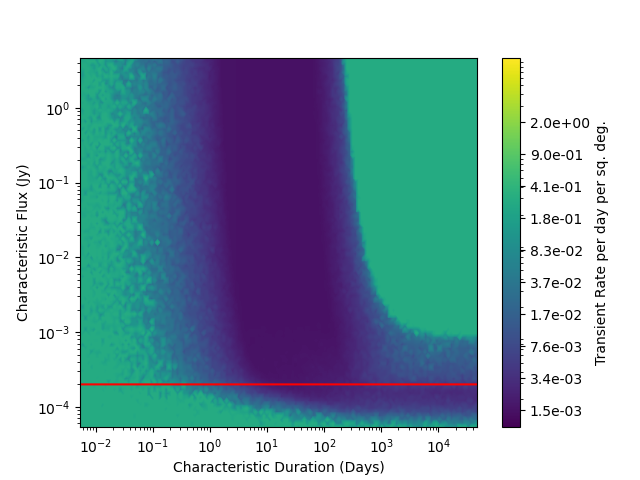
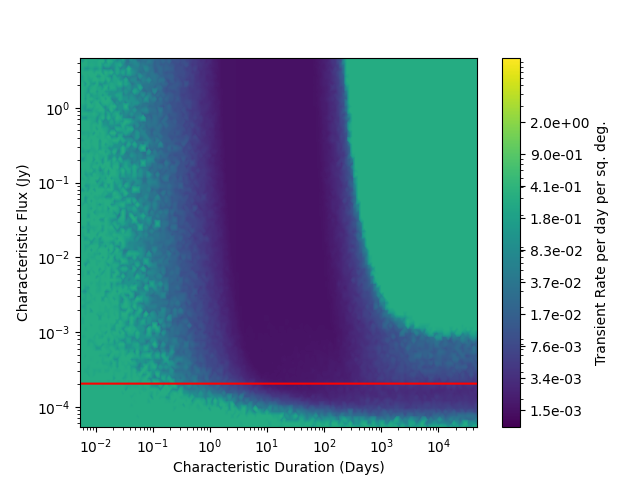
created a temporary diagnostic plot, made a temporary vertical line. some fixes, some figures.

diff --git a/simulations/compute_lc.py b/simulations/compute_lc.py
@@ -52,8 +52,8 @@ def observing_strategy(obs_setup, det_threshold, nobs, obssens, obssig, obsinter
         tmpscoff1 = tmpsc.directional_offset_by(-30.00075*u.degree, (1/np.sqrt(2))*u.degree)
         tmpscoff2 = tmpsc.directional_offset_by(30.00075*u.degree, (1/np.sqrt(2))*u.degree)
         # # print()
-        pointing[:15]-=[tmpsc.ra.deg - tmpscoff1.ra.deg,tmpsc.dec.deg - tmpscoff1.dec.deg]
-        pointing[15:30]-=[tmpsc.ra.deg - tmpscoff2.ra.deg,tmpsc.dec.deg - tmpscoff2.dec.deg]
+        # pointing[:15]-=[tmpsc.ra.deg - tmpscoff1.ra.deg,tmpsc.dec.deg - tmpscoff1.dec.deg]
+        # pointing[15:30]-=[tmpsc.ra.deg - tmpscoff2.ra.deg,tmpsc.dec.deg - tmpscoff2.dec.deg]
         # pointing[::3]=[342.5811999,-59.12369356]
         # pointing[1::3]=[342.6688451,-59.04494042]
         # print(pointing)
@@ -68,6 +68,7 @@ def observing_strategy(obs_setup, det_threshold, nobs, obssens, obssig, obsinter
         pointFOV = np.zeros((len(obs),3))
         pointFOV[:,0:2] += pointing
         pointFOV[:,2] += FOV
+
     return obs, pointFOV
         
 def calculate_regions(pointFOV, observations):
@@ -133,7 +134,7 @@ def calculate_regions(pointFOV, observations):
                     # from the triangle formed between pointing center, overlap center, and overlap nodal point.
 
                     angle_offset = 90*u.deg
-                    halfheightr4 = np.arccos(np.cos(r2)/np.cos(gamma[i][j])) 
+                    halfheightr4 = np.arccos(np.cos(r1)/np.cos(gamma[i][j])) 
                     point4key = np.where(regions['identity'] == str(i)+'&'+str(j))
                     point4ra = regions['ra'][point4key]
                     point4dec = regions['dec'][point4key]
@@ -144,7 +145,7 @@ def calculate_regions(pointFOV, observations):
                     if point7sc.separation(uniquesky[index3]).deg > uniquepoint[index3,2]:
                         point7sc = point4sc.directional_offset_by(point4pa - angle_offset, halfheightr4)
 
-                    halfheightr5 = np.arccos(np.cos(r3)/np.cos(gamma[j][index3]))
+                    halfheightr5 = np.arccos(np.cos(r2)/np.cos(gamma[j][index3]))
                     point5key = np.where(regions['identity'] == str(j)+'&'+str(index3))
                     point5ra = regions['ra'][point5key]
                     point5dec = regions['dec'][point5key]
@@ -205,8 +206,8 @@ def calculate_regions(pointFOV, observations):
                     regions['timespan'][leftoff] = regions['stop'][leftoff] - regions['start'][leftoff]
                     leftoff+=1
 
-                    # scatterpointsra.extend([point7sc.ra,point8sc.ra,point9sc.ra])
-                    # scatterpointsdec.extend([point7sc.dec,point8sc.dec,point9sc.dec])
+    #                 scatterpointsra.extend([point7sc.ra,point8sc.ra,point9sc.ra])
+    #                 scatterpointsdec.extend([point7sc.dec,point8sc.dec,point9sc.dec])
     # from astropy.wcs import WCS
     # from astropy.io import fits
     # from astropy.utils.data import get_pkg_data_filename
@@ -525,10 +526,20 @@ def make_mpl_plots(rgn, fl_min,fl_max,dmin,dmax,det_threshold,extra_threshold,ob
     with np.errstate(divide='ignore'):
         if detections==0:
             trial_transrate = -np.log(1-confidence)/(probabilities)/(tsurvey + durations)/area
-
             try: 
                 ultransrates = np.nan_to_num(-np.log(1-confidence)/(probabilities)/(tsurvey + durations)/area, posinf=np.max(trial_transrate[trial_transrate < np.inf]))
                 ulZrate = interpolate.griddata(toplot[:,0:2], ultransrates, (X, Y), method='linear')
+                fig = plt.figure()
+                plt.scatter(10**X[Y == Y[500,500]],ulZrate[Y == Y[500,500]], s=5)
+                ax = plt.gca()
+                ax.set_xscale('log')
+                plt.title('Transient Rate at '+str(10**Y[500,500])+" Jy")
+                ax.set_xlabel('Characteristic Duration (days)')
+                ax.set_ylabel('Transient Rate per day per sq. deg.')
+                np.save("xratescatter.npy", 10**X[Y == Y[500,500]])
+                np.save("yratescatter.npy", ulZrate[Y == Y[500,500]])
+                plt.savefig('ratescatter.png')
+                plt.close()
                 # Make plot for zero detections
                 fig = plt.figure()
                 # 
@@ -541,6 +552,7 @@ def make_mpl_plots(rgn, fl_min,fl_max,dmin,dmax,det_threshold,extra_threshold,ob
                 cbarrate = fig.colorbar(csrate, ticks=np.geomspace(ulZrate.min(),np.ceil(np.mean(ulZrate))+1,num=10), format=ticker.StrMethodFormatter("{x:01.1e}"))
                 cbarrate.set_label('Transient Rate per day per sq. deg.')
                 plt.plot(10**xs, 10**np.full(xs.shape, np.log10(vlinex[0])),  color="red")
+                plt.plot(10**np.full(ys.shape, np.log10(5/60/24)),10**ys,  color="red")
                 ax = plt.gca()
                 ax.set_ylabel('Characteristic Flux (Jy)')
                 ax.set_xlabel('Characteristic Duration (Days)')
@@ -614,6 +626,7 @@ def make_mpl_plots(rgn, fl_min,fl_max,dmin,dmax,det_threshold,extra_threshold,ob
             cbarrate = fig.colorbar(csrate, ticks=np.geomspace(llZrate[llZrate>0].min(),np.ceil(np.mean(llZrate[llZrate>0]))+1,num=10), format=ticker.StrMethodFormatter("{x:01.1e}"))
             cbarrate.set_label('Transient Rate per day per sq. deg.')
             plt.plot(10**xs, 10**np.full(xs.shape, np.log10(vlinex[0])),  color="red")
+            plt.plot(10**np.full(ys.shape, np.log10(5/60/24)),10**ys,  color="red")
             ax = plt.gca()
             ax.set_ylabel('Characteristic Flux (Jy)')
             ax.set_xlabel('Characteristic Duration (Days)')
@@ -642,6 +655,7 @@ def make_mpl_plots(rgn, fl_min,fl_max,dmin,dmax,det_threshold,extra_threshold,ob
     plt.plot(10**xs[durmax_y_indices], durmax_y[durmax_y_indices],  color = "red")
     plt.plot(10**xs[maxdist_y_indices], maxdist_y[maxdist_y_indices],   color = "red")
     plt.plot(10**xs, 10**np.full(xs.shape, np.log10(vlinex[0])),  color="red")
+    plt.plot(10**np.full(ys.shape, np.log10(5/60/24)),10**ys,  color="red")
     if durmax_x[0]!=' ':
         plt.plot(10**durmax_x, 10**ys,  color = "red")
     if maxdist_x[0]!=' ':    
